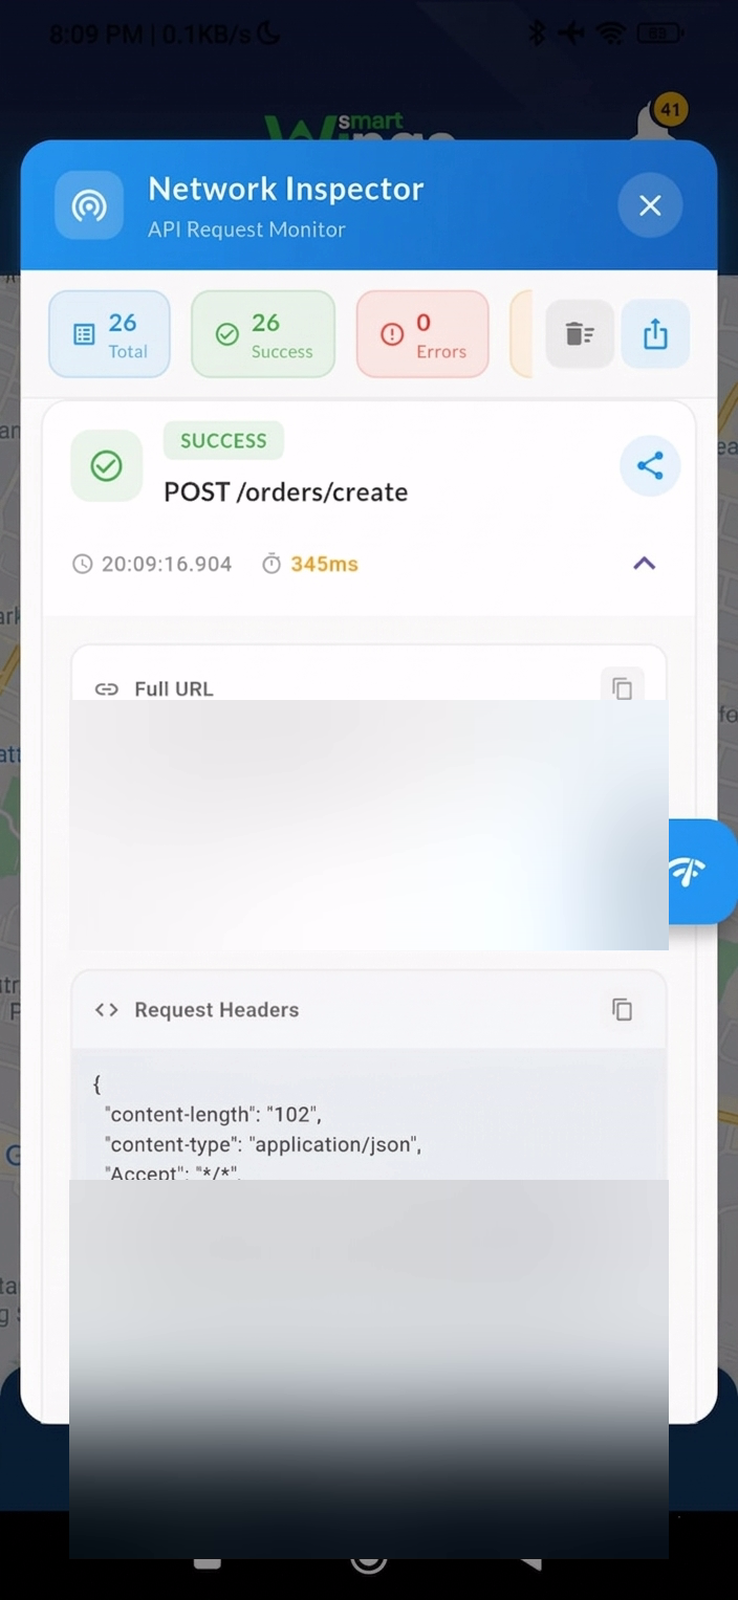
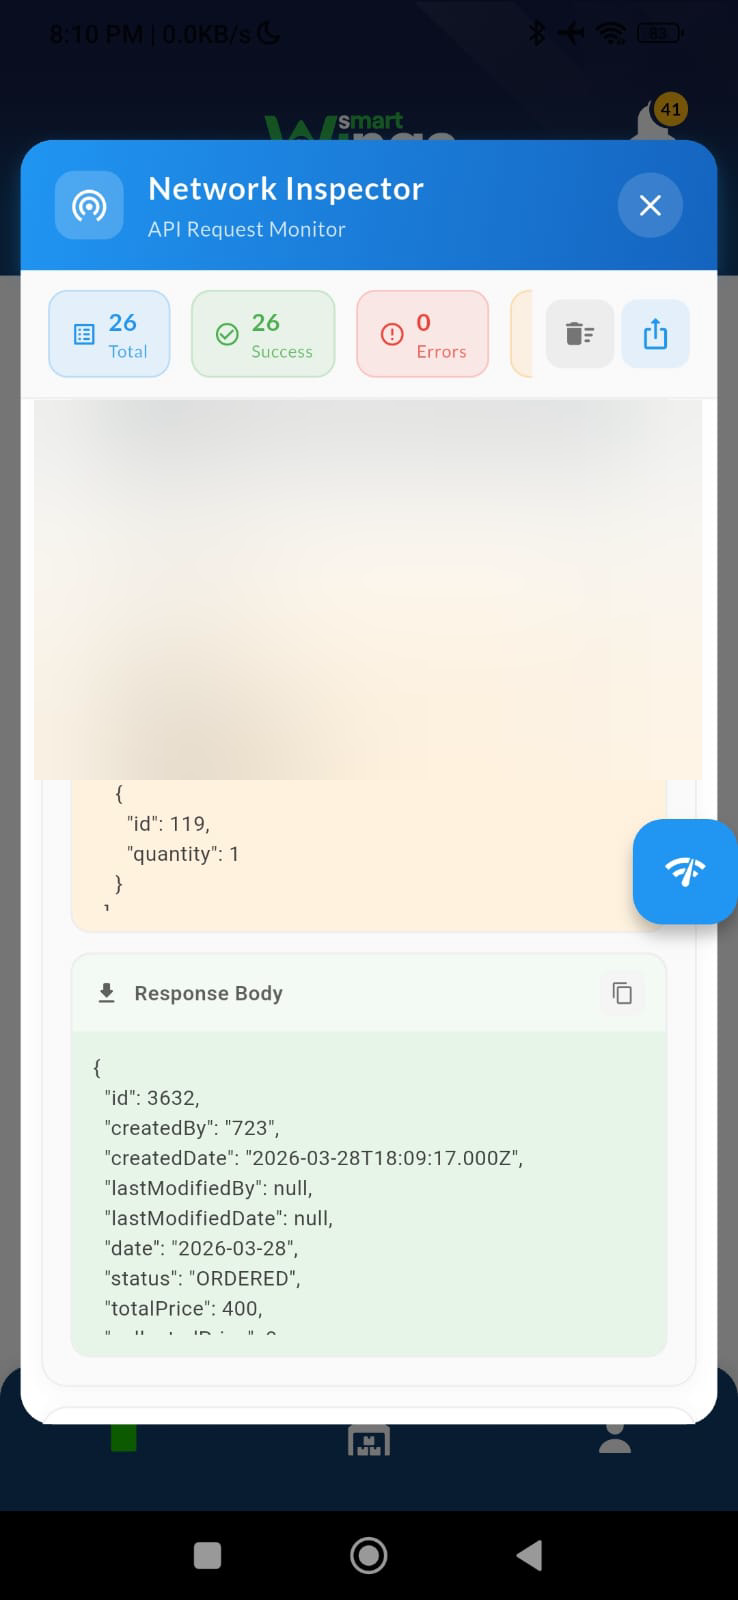
fix: use author-provided screenshots for pub.dev (1.1.13)
Made-with: Cursor

diff --git a/README.md b/README.md
@@ -13,7 +13,7 @@ No setup overhead:
 
 ## Screenshots
 
-| ![Request list](https://raw.githubusercontent.com/abduwael/network_inspector/master/doc/screenshots/request_list.png) | ![Request details](https://raw.githubusercontent.com/abduwael/network_inspector/master/doc/screenshots/request_details.png) | ![Error detail](https://raw.githubusercontent.com/abduwael/network_inspector/master/doc/screenshots/request_error.png) |
+| ![Request list](https://raw.githubusercontent.com/abduwael/network_inspector/master/doc/screenshots/request_list.png) | ![Request / response bodies](https://raw.githubusercontent.com/abduwael/network_inspector/master/doc/screenshots/request_details.png) | ![403 + headers](https://raw.githubusercontent.com/abduwael/network_inspector/master/doc/screenshots/request_error.png) |
 | :---: | :---: | :---: |
 
 ## Quick AI prompt
@@ -43,7 +43,7 @@ Requirements:
 
 ```yaml
 dependencies:
-  api_track_inspector: ^1.1.12
+  api_track_inspector: ^1.1.13
 ```
 
 ### 2) Install from Git (secondary)

diff --git a/CHANGELOG.md b/CHANGELOG.md
@@ -2,6 +2,10 @@
 
 All notable changes to this package will be documented in this file.
 
+## 1.1.13
+
+- Replaced `doc/screenshots` with the images from the latest author-provided captures: list export, WhatsApp 8:15 PM (request/response body view, JWT strip redacted), and WhatsApp 6:34 PM (403 + headers, Authorization redacted).
+
 ## 1.1.12
 
 - Updated `doc/screenshots/` from the latest captures: request list, success detail (sanitized URL + Bearer via blur), and error detail; scaled the detail shot to match list/error dimensions for the README table.
